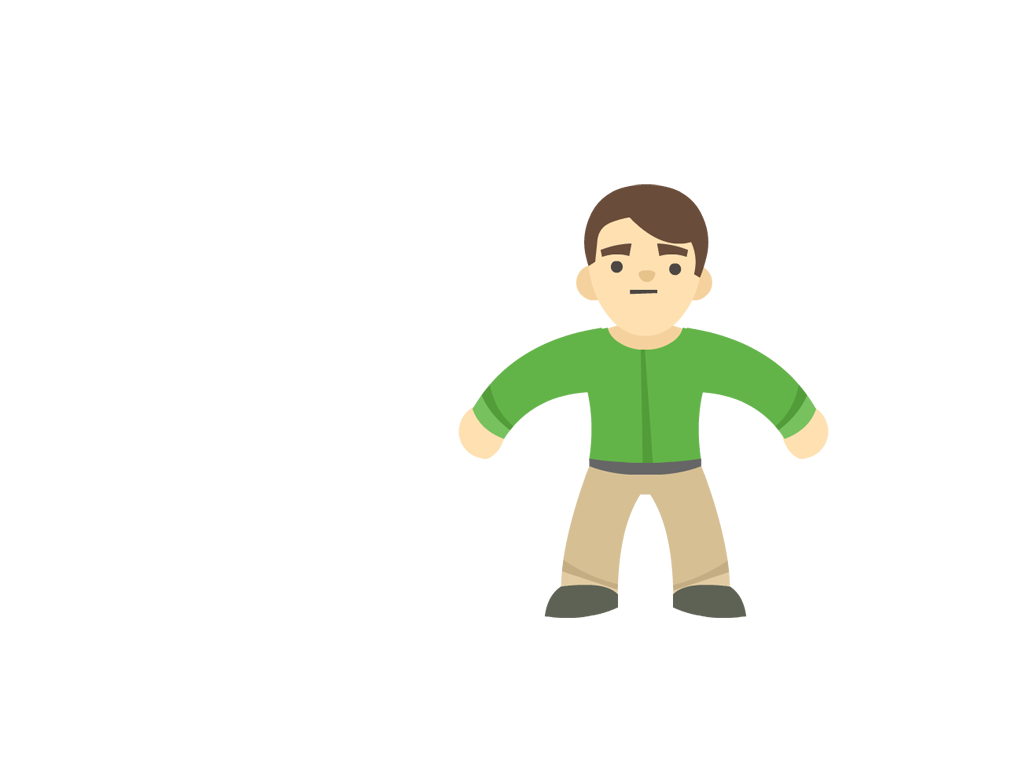
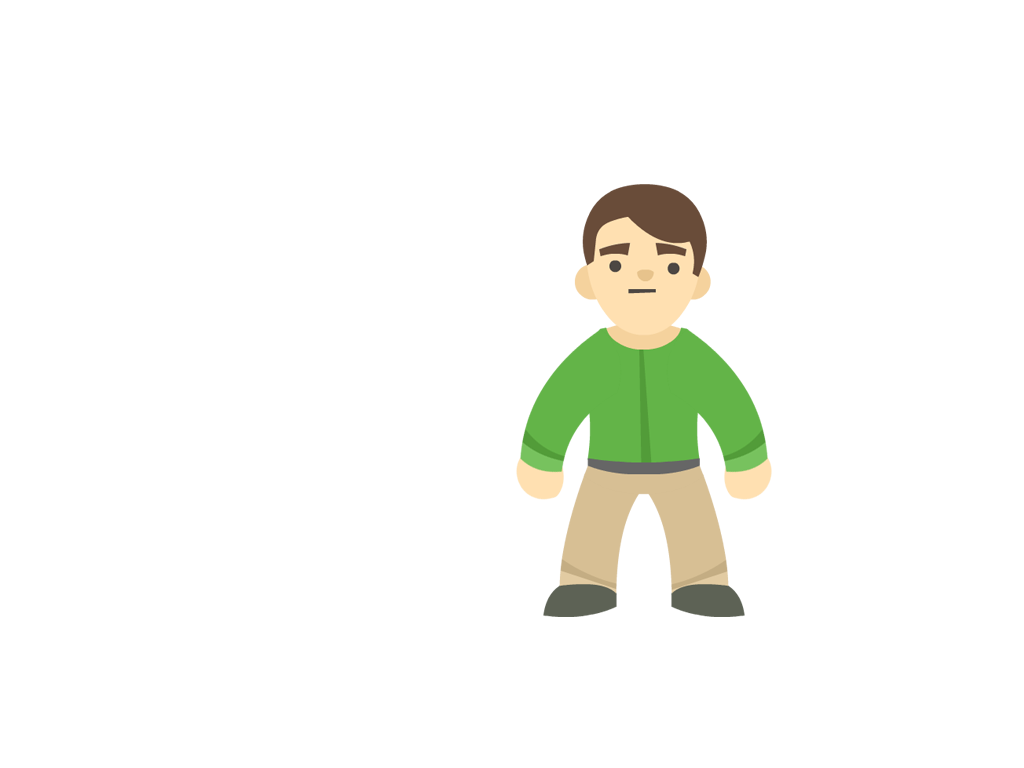
swapped out char art and added sliding difficulty scale

diff --git a/js/game.js b/js/game.js
@@ -5,7 +5,7 @@ var LETTER_SIZE = 258;
 var LETTER_SCALE = .25;
 var TRUE_LETTER_SIZE = LETTER_SIZE * LETTER_SCALE;
 
-var words = ["BUCKAROO", "CHUCK WAGON"];
+var words = ["BUCKAROO", "CHUCK WAGON", "BRITCHES", "BRONCO", "BUSHWHACKER", "CAMPFIRE", "CATTLE DRIVE", "COWBOY", "DROUGHT", "FISTICUFFS", "FRONTIER", "GALLOP", "GAUCHO", "GIDDYUP", "GOLD FEVER", "HOGTIE", "HORSESHOES", "LARIAT", "LASSO", "LIVESTOCK", "LONGHORNS", "MARKSMEN", "MAVERICK", "OUTLAW", "PACKHORSE", "PEACEMAKER", "PONIES", "SADDLEBAGS", "SALOON", "SHERIFF", "STALLION", "STOCKADE", "TOMBSTONE", "UNSCRUPULOUS", "VAMOOSE", "VARMINT", "VULTURES", "WRANGLER", "YEE HAW", "YONDER"];
 var currentWordArr = [];
 var finishedWordArr = [];
 
@@ -16,14 +16,14 @@ var X_TIMER_DRAW_LOW = 1500;
 var X_TIMER_DRAW_HIGH = 3000;
 //word complete timer is the amount of time it takes the cpu char to shoot
 //after he has begun to draw his weapon
-var X_TIMER_WORD_COMPLETE = 3000;
+var X_TIME_PER_LETTER = 300;
 
 //how many ms are in one frame?
 var FRAME_TO_MS = 1000 / FPS;
 //automatically convert, don't touch
 var TIMER_DRAW_LOW = Math.ceil(X_TIMER_DRAW_LOW / FRAME_TO_MS);
 var TIMER_DRAW_HIGH = Math.ceil(X_TIMER_DRAW_HIGH / FRAME_TO_MS);
-var TIMER_WORD_COMPLETE = Math.ceil(X_TIMER_WORD_COMPLETE / FRAME_TO_MS);
+var TIME_PER_LETTER = Math.ceil(X_TIME_PER_LETTER / FRAME_TO_MS);
 
 //the current timer
 var currentCharTimer;
@@ -116,11 +116,9 @@ function init(){
     button.interactive = true;
 
     button.click = function(data) {
-        console.log("CLICK!");
         prepareGame();
     };
     button.tap = function(data) {
-        console.log("TAP!!");
         prepareGame();
     };
 
@@ -153,7 +151,6 @@ function init(){
   }
 
   function createLetter(letterChar, x){
-    console.log("creating letter with: " + letterChar + " @ x: " + x);
     var letter = PIXI.Sprite.fromFrame(letterChar + ".png");
     letter.width = letter.height = TRUE_LETTER_SIZE;
     letter.position.x = x;
@@ -173,7 +170,6 @@ function init(){
 
   function handleInput(key){
     //if the CPU char hasn't started to shoot, don't type
-    console.log("input: key: " + key + " - state: " + currentCharState);
     //space trapping for menu stuff
     if (currentCharState == "spent" && key == 13){
       resetGame();
@@ -198,14 +194,11 @@ function init(){
       char = "-";
     }
     var index = finishedWordArr.length;
-    console.log("index: " + index + " - char: (" + char + ") == currentWordArr[index]: (" + currentWordArr[index] + ")");
     if (char == currentWordArr[index]){
       swapLetter(index);
-      console.log("match! " + char);
     }
     if (currentWordArr.length == finishedWordArr.length){
       //they've matched the entire word
-      console.log("clearing word");
       currentCharState = "dead";
     }
   }
@@ -230,7 +223,6 @@ function init(){
     //just in case
     clearInterval(animator);
     animator = setInterval(animate, FPS);
-    console.log("set animator");
     resetGame();
     startGame();
   }
@@ -263,7 +255,9 @@ function init(){
         if (currentCharTimer <= 0){
           //they should draw now!
           showMessage("Draw!");
-          currentCharTimer = TIMER_WORD_COMPLETE;
+          currentCharTimer = ((TIME_PER_LETTER * currentWordArr.length) - ((TIME_PER_LETTER / 10) * currentRound));
+          console.log("draw: T_P_L: " + TIME_PER_LETTER + "* word.length: " + currentWordArr.length + " - (" + (TIME_PER_LETTER * currentWordArr.length) + ")");
+          console.log("difficulty (bigger is harder): " + ((TIME_PER_LETTER / 10) * currentRound));
           currentCharState = "drawing";
         }else{
           currentCharTimer--;
